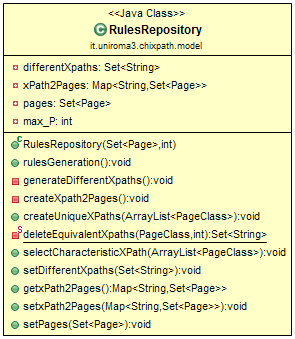
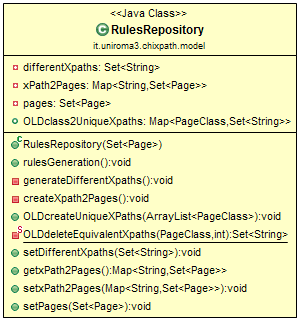
Refactory
Moved metods and variables from RulesRepository to PageClass
Next step: introducing XPath class!

diff --git a/src/main/java/it/uniroma3/chixpath/model/RulesRepository.java b/src/main/java/it/uniroma3/chixpath/model/RulesRepository.java
@@ -1,10 +1,8 @@
 package it.uniroma3.chixpath.model;
 
 import java.util.ArrayList;
-import java.util.Comparator;
 import java.util.HashMap;
 import java.util.HashSet;
-import java.util.LinkedList;
 import java.util.Map;
 import java.util.Set;
 
@@ -15,18 +13,17 @@ import it.uniroma3.fragment.RuleInference;
 
 
 public class RulesRepository {
-	public RulesRepository(Set<Page> pages,int max) {
+	public RulesRepository(Set<Page> pages) {
 		this.setPages(pages);
 		this.rulesGeneration();
 		this.generateDifferentXpaths();
 		this.createXpath2Pages();
-		this.max_P=max;
 	}
 
 	private Set<String> differentXpaths  = new HashSet<>();
 	private Map<String, Set<Page>> xPath2Pages  = new HashMap<>();
 	private Set<Page> pages;
-	private int max_P;
+	public Map<PageClass, Set<String>> OLDclass2UniqueXpaths;
 
 	public void rulesGeneration() {
 		//chifragment specification senza argomenti usa l'HTML_STANDARD_CASEHANDLER
@@ -65,26 +62,17 @@ public class RulesRepository {
 		}
 		this.setxPath2Pages(x2p);
 	}
-
-	public void createUniqueXPaths(ArrayList<PageClass> pageClasses) throws XPathExpressionException {
-		for(PageClass classe : pageClasses) {
-			final Set<String> senzaEquivalenti = deleteEquivalentXpaths(classe,this.max_P);
-			classe.setUniqueXPaths(senzaEquivalenti);
-			//System.out.println("Classe di pagine "+classe.getId()+" matcha con "+senzaEquivalenti.size()+" xpaths");
-		}
-		System.out.println("");
-	}
-	
-	/*public void OLDcreateUniqueXPaths(ArrayList<PageClass> classiDiPagine) throws XPathExpressionException {
+	//Da togliere
+	public void OLDcreateUniqueXPaths(ArrayList<PageClass> classiDiPagine) throws XPathExpressionException {
 		final Map<PageClass, Set<String>> c2ux = new HashMap<>();
 		for(PageClass classe : classiDiPagine) {
-			final Set<String> senzaEquivalenti = deleteEquivalentXpaths(classe,this.max_P);
+			final Set<String> senzaEquivalenti = OLDdeleteEquivalentXpaths(classe,4);
 			c2ux.put(classe, senzaEquivalenti);
 			//System.out.println("Classe di pagine "+classe.getId()+" matcha con "+senzaEquivalenti.size()+" xpaths");
 		}
 		System.out.println("");
 		this.OLDclass2UniqueXpaths=c2ux;
-	}*/
+	}
 
 	
 	/*public void createUniqueXPaths(ArrayList<PageClass> classiDiPagine) throws XPathExpressionException {
@@ -171,7 +159,8 @@ public class RulesRepository {
 		return senzaEquivalenti;
 	}*/
 	//VECCHIA 10,39 MIN NUOVA 15s sul test Messaggero
-	private static Set<String> deleteEquivalentXpaths(PageClass pClass, int MAX_PAGES) throws XPathExpressionException{
+	//Datogliere!!!
+	private static Set<String> OLDdeleteEquivalentXpaths(PageClass pClass, int MAX_PAGES) throws XPathExpressionException{
 		VectorRepository container = new VectorRepository(pClass,MAX_PAGES,pClass.getId());
 		int index=1;
 		for (String rule : pClass.getxPaths()) {
@@ -182,25 +171,7 @@ public class RulesRepository {
 		return container.getXPaths();
 	}
 	
-	public  void selectCharacteristicXPath(ArrayList<PageClass> pageClasses) {
-		for(PageClass pageClass : pageClasses) {
-			final Set<String> rules = pageClass.getUniqueXPaths();
-			String bestXPath = null;
-
-			if (!rules.isEmpty()) {
-				final LinkedList<String> ranking = new LinkedList<String>(rules);
-				/* order by XPath expression length */
-				ranking.sort(Comparator.<String>comparingInt( xpath -> xpath.length() )
-						.thenComparing( xpath -> xpath.toString() )
-						);
-				bestXPath = ranking.getFirst();
-			}
-			else
-				System.out.println("Nessun xPath caratteristico trovato per la classe di pagine"+ pageClass.getId());
-			pageClass.setCharacteristicXPath(bestXPath);
-		}
-		
-	}
+	
 	
 	
 	public void setDifferentXpaths(Set<String> differentXpaths) {

diff --git a/src/main/java/it/uniroma3/chixpath/model/PageClass.java b/src/main/java/it/uniroma3/chixpath/model/PageClass.java
@@ -1,8 +1,12 @@
 package it.uniroma3.chixpath.model;
 
 import java.util.ArrayList;
+import java.util.Comparator;
 import java.util.HashSet;
+import java.util.LinkedList;
 import java.util.Set;
+
+import javax.xml.xpath.XPathExpressionException;
 
 public class PageClass implements Comparable<PageClass> {
 	private Set<String> xPaths = new HashSet<>();
@@ -116,6 +120,44 @@ public class PageClass implements Comparable<PageClass> {
 
 		public void setCharacteristicXPath(String characteristicXPath) {
 			this.characteristicXPath = characteristicXPath;
+		}
+		public static void createUniqueXPaths(ArrayList<PageClass> pageClasses,int max_p) throws XPathExpressionException {
+			for(PageClass classe : pageClasses) {
+				final Set<String> senzaEquivalenti = classe.deleteEquivalentXpaths(max_p);
+				classe.setUniqueXPaths(senzaEquivalenti);
+				//System.out.println("Classe di pagine "+classe.getId()+" matcha con "+senzaEquivalenti.size()+" xpaths");
+			}
+			System.out.println("");
+		}
+
+		public Set<String> deleteEquivalentXpaths(int max_P) throws XPathExpressionException{
+				VectorRepository container = new VectorRepository(this,max_P,this.getId());
+				int index=1;
+				for (String rule : this.getxPaths()) {
+						System.out.println("controllando xpath "+index+ " di "+this.getxPaths().size());
+						container.addUnique(rule);
+						index++;
+				}
+				return container.getXPaths();
+		}
+		public static void selectCharacteristicXPath(ArrayList<PageClass> pageClasses) {
+			for(PageClass pageClass : pageClasses) {
+				final Set<String> rules = pageClass.getUniqueXPaths();
+				String bestXPath = null;
+
+				if (!rules.isEmpty()) {
+					final LinkedList<String> ranking = new LinkedList<String>(rules);
+					/* order by XPath expression length */
+					ranking.sort(Comparator.<String>comparingInt( xpath -> xpath.length() )
+							.thenComparing( xpath -> xpath.toString() )
+							);
+					bestXPath = ranking.getFirst();
+				}
+				else
+					System.out.println("Nessun xPath caratteristico trovato per la classe di pagine"+ pageClass.getId());
+				pageClass.setCharacteristicXPath(bestXPath);
+			}
+			
 		}
 	    
 	

diff --git a/src/test/java/it/uniroma3/chixpath/Partitioner.java b/src/test/java/it/uniroma3/chixpath/Partitioner.java
@@ -62,9 +62,8 @@ public class Partitioner {
 		final Set<Page> pages = createPages(pageUrls);
 
 		
-		final RulesRepository rulesRep = new RulesRepository(pages,MAX_PAGES);
-
-		
+		final RulesRepository rulesRep = new RulesRepository(pages);		
+	
 
 		//raggruppamento di TUTTE LE PAGINE che condividono GLI STESSI xPath
 		final ArrayList<PageClass> pageClasses = groupPagesByXpaths(rulesRep.getxPath2Pages());
@@ -78,12 +77,29 @@ public class Partitioner {
 		}
 		System.out.println("");
 
-	
-		rulesRep.createUniqueXPaths(pageClasses);
-		
+		PageClass.createUniqueXPaths(pageClasses, MAX_PAGES);
+		///DATOGLIERE
+		rulesRep.OLDcreateUniqueXPaths(pageClasses);
+		for(PageClass pc: pageClasses) {
+			if (pc.getUniqueXPaths().size() != rulesRep.OLDclass2UniqueXpaths.get(pc).size()) {
+				System.out.println("DIMENSIONI DIFFERENTI SU PAGINEA " + pc.getId());
+			}
+			else {
+				boolean uguali = true;
+				for (String str: pc.getUniqueXPaths()) {
+					if(!rulesRep.OLDclass2UniqueXpaths.get(pc).contains(str)) {
+						uguali = false;
+						System.out.println("Trovato elemento diverso su pagina "+pc.getId());
+					}
+				}
+				if (uguali)
+						System.out.println("TUTTI ELEMENTI UGUALI SU PAGINA "+pc.getId());
+			}
+		}
+		//FINO A QUI
 		
 		//selezione dell'Xpath caratteristico per ogni classe di pagine
-		rulesRep.selectCharacteristicXPath(pageClasses);
+		PageClass.selectCharacteristicXPath(pageClasses);
 		for(PageClass pageClass : pageClasses) {
 			System.out.println("Classe di pagine "+pageClass.getId()+" ha xPath caratteristico "+pageClass.getCharacteristicXPath());
 		}
